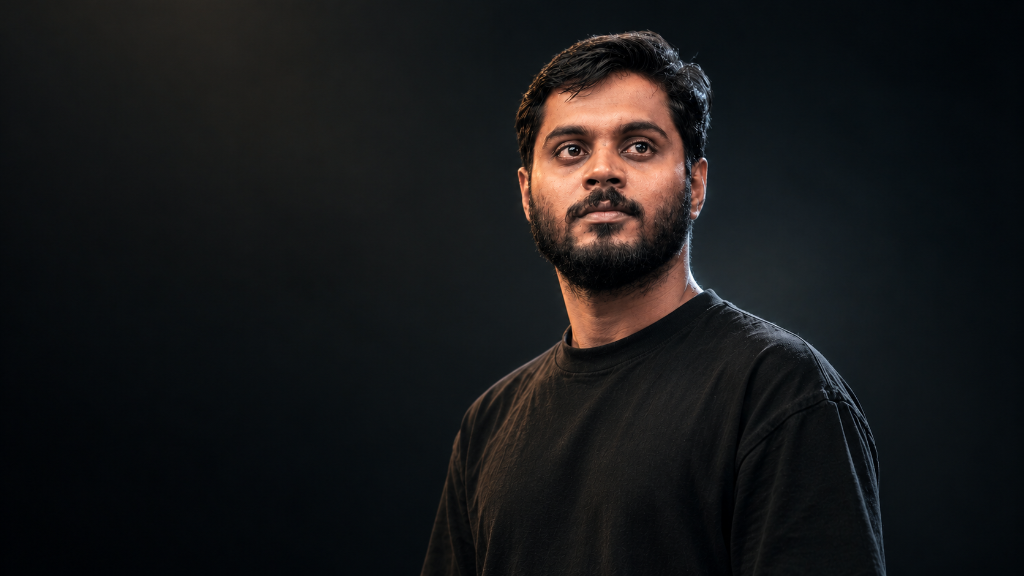
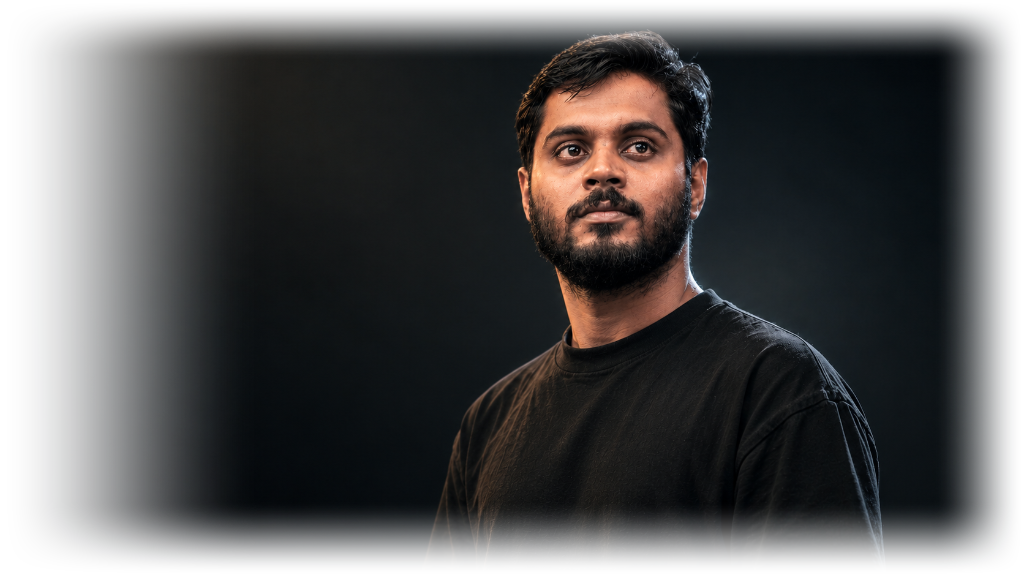
Make hero portrait large and seamlessly blend into website background without card border

diff --git a/index.html b/index.html
@@ -2921,6 +2921,92 @@ button, input, textarea, select {
   }
 }
 
+  
+/* ==========================================================================
+   SEAMLESS HERO VISUAL (LARGE, BORDERLESS & FEATHERED STUDIO INTEGRATION)
+   ========================================================================== */
+.hero-grid {
+  grid-template-columns: 1fr 1.15fr !important;
+  gap: 20px !important;
+  align-items: center !important;
+}
+
+.hero-portrait-wrapper {
+  position: relative !important;
+  display: flex !important;
+  justify-content: center !important;
+  align-items: center !important;
+  width: 100% !important;
+  overflow: visible !important;
+}
+
+.portrait-glow-ring,
+.portrait-lime-accent {
+  display: none !important;
+}
+
+.portrait-editorial-frame {
+  position: relative !important;
+  width: 100% !important;
+  max-width: 760px !important;
+  aspect-ratio: auto !important;
+  border: none !important;
+  border-radius: 0 !important;
+  box-shadow: none !important;
+  background: transparent !important;
+  overflow: visible !important;
+  display: flex !important;
+  justify-content: center !important;
+  align-items: center !important;
+}
+
+.portrait-editorial-img {
+  width: 100% !important;
+  max-width: 760px !important;
+  height: auto !important;
+  display: block !important;
+  object-fit: contain !important;
+  transform: scale(1.15) !important;
+  transform-origin: 72% 52% !important;
+  filter: drop-shadow(0 20px 40px rgba(0, 0, 0, 0.9)) !important;
+  -webkit-mask-image: radial-gradient(ellipse 80% 75% at 70% 50%, #000 50%, rgba(0,0,0,0.85) 65%, transparent 95%) !important;
+  mask-image: radial-gradient(ellipse 80% 75% at 70% 50%, #000 50%, rgba(0,0,0,0.85) 65%, transparent 95%) !important;
+  transition: transform var(--transition-smooth) !important;
+}
+
+.portrait-editorial-frame:hover .portrait-editorial-img {
+  transform: scale(1.18) !important;
+}
+
+.portrait-floating-card {
+  position: absolute !important;
+  bottom: 12px !important;
+  right: 14% !important;
+  background: rgba(15, 15, 15, 0.85) !important;
+  backdrop-filter: blur(14px) !important;
+  -webkit-backdrop-filter: blur(14px) !important;
+  border: 1px solid rgba(255, 255, 255, 0.1) !important;
+  border-radius: 12px !important;
+  padding: 10px 18px !important;
+  box-shadow: 0 15px 35px rgba(0, 0, 0, 0.8) !important;
+  z-index: 5 !important;
+}
+
+@media (max-width: 1024px) {
+  .hero-grid {
+    grid-template-columns: 1fr !important;
+    gap: 30px !important;
+  }
+  .portrait-editorial-img {
+    transform: scale(1.05) !important;
+    transform-origin: center center !important;
+  }
+  .portrait-floating-card {
+    right: 5% !important;
+    bottom: 5px !important;
+  }
+}
+
   </style>
 
   <!-- Favicon / Logo -->

diff --git a/assets/css/styles.css b/assets/css/styles.css
@@ -2872,3 +2872,89 @@ button, input, textarea, select {
     animation: none !important;
   }
 }
+
+
+/* ==========================================================================
+   SEAMLESS HERO VISUAL (LARGE, BORDERLESS & FEATHERED STUDIO INTEGRATION)
+   ========================================================================== */
+.hero-grid {
+  grid-template-columns: 1fr 1.15fr !important;
+  gap: 20px !important;
+  align-items: center !important;
+}
+
+.hero-portrait-wrapper {
+  position: relative !important;
+  display: flex !important;
+  justify-content: center !important;
+  align-items: center !important;
+  width: 100% !important;
+  overflow: visible !important;
+}
+
+.portrait-glow-ring,
+.portrait-lime-accent {
+  display: none !important;
+}
+
+.portrait-editorial-frame {
+  position: relative !important;
+  width: 100% !important;
+  max-width: 760px !important;
+  aspect-ratio: auto !important;
+  border: none !important;
+  border-radius: 0 !important;
+  box-shadow: none !important;
+  background: transparent !important;
+  overflow: visible !important;
+  display: flex !important;
+  justify-content: center !important;
+  align-items: center !important;
+}
+
+.portrait-editorial-img {
+  width: 100% !important;
+  max-width: 760px !important;
+  height: auto !important;
+  display: block !important;
+  object-fit: contain !important;
+  transform: scale(1.15) !important;
+  transform-origin: 72% 52% !important;
+  filter: drop-shadow(0 20px 40px rgba(0, 0, 0, 0.9)) !important;
+  -webkit-mask-image: radial-gradient(ellipse 80% 75% at 70% 50%, #000 50%, rgba(0,0,0,0.85) 65%, transparent 95%) !important;
+  mask-image: radial-gradient(ellipse 80% 75% at 70% 50%, #000 50%, rgba(0,0,0,0.85) 65%, transparent 95%) !important;
+  transition: transform var(--transition-smooth) !important;
+}
+
+.portrait-editorial-frame:hover .portrait-editorial-img {
+  transform: scale(1.18) !important;
+}
+
+.portrait-floating-card {
+  position: absolute !important;
+  bottom: 12px !important;
+  right: 14% !important;
+  background: rgba(15, 15, 15, 0.85) !important;
+  backdrop-filter: blur(14px) !important;
+  -webkit-backdrop-filter: blur(14px) !important;
+  border: 1px solid rgba(255, 255, 255, 0.1) !important;
+  border-radius: 12px !important;
+  padding: 10px 18px !important;
+  box-shadow: 0 15px 35px rgba(0, 0, 0, 0.8) !important;
+  z-index: 5 !important;
+}
+
+@media (max-width: 1024px) {
+  .hero-grid {
+    grid-template-columns: 1fr !important;
+    gap: 30px !important;
+  }
+  .portrait-editorial-img {
+    transform: scale(1.05) !important;
+    transform-origin: center center !important;
+  }
+  .portrait-floating-card {
+    right: 5% !important;
+    bottom: 5px !important;
+  }
+}

diff --git a/scripts/apply_seamless_hero.py b/scripts/apply_seamless_hero.py
@@ -1,0 +1,124 @@
+#!/usr/bin/env python3
+"""
+Updates the hero visual styling so Haris is large and the image blends 100% seamlessly
+with the website background (no borders, no card box, feathered edges, and scale).
+"""
+
+with open('assets/css/styles.css', 'r', encoding='utf-8') as f:
+    css = f.read()
+
+with open('index.html', 'r', encoding='utf-8') as f:
+    html = f.read()
+
+seamless_hero_css = """
+/* ==========================================================================
+   SEAMLESS HERO VISUAL (LARGE, BORDERLESS & FEATHERED STUDIO INTEGRATION)
+   ========================================================================== */
+.hero-grid {
+  grid-template-columns: 1fr 1.15fr !important;
+  gap: 20px !important;
+  align-items: center !important;
+}
+
+.hero-portrait-wrapper {
+  position: relative !important;
+  display: flex !important;
+  justify-content: center !important;
+  align-items: center !important;
+  width: 100% !important;
+  overflow: visible !important;
+}
+
+.portrait-glow-ring,
+.portrait-lime-accent {
+  display: none !important;
+}
+
+.portrait-editorial-frame {
+  position: relative !important;
+  width: 100% !important;
+  max-width: 760px !important;
+  aspect-ratio: auto !important;
+  border: none !important;
+  border-radius: 0 !important;
+  box-shadow: none !important;
+  background: transparent !important;
+  overflow: visible !important;
+  display: flex !important;
+  justify-content: center !important;
+  align-items: center !important;
+}
+
+.portrait-editorial-img {
+  width: 100% !important;
+  max-width: 760px !important;
+  height: auto !important;
+  display: block !important;
+  object-fit: contain !important;
+  transform: scale(1.15) !important;
+  transform-origin: 72% 52% !important;
+  filter: drop-shadow(0 20px 40px rgba(0, 0, 0, 0.9)) !important;
+  -webkit-mask-image: radial-gradient(ellipse 80% 75% at 70% 50%, #000 50%, rgba(0,0,0,0.85) 65%, transparent 95%) !important;
+  mask-image: radial-gradient(ellipse 80% 75% at 70% 50%, #000 50%, rgba(0,0,0,0.85) 65%, transparent 95%) !important;
+  transition: transform var(--transition-smooth) !important;
+}
+
+.portrait-editorial-frame:hover .portrait-editorial-img {
+  transform: scale(1.18) !important;
+}
+
+.portrait-floating-card {
+  position: absolute !important;
+  bottom: 12px !important;
+  right: 14% !important;
+  background: rgba(15, 15, 15, 0.85) !important;
+  backdrop-filter: blur(14px) !important;
+  -webkit-backdrop-filter: blur(14px) !important;
+  border: 1px solid rgba(255, 255, 255, 0.1) !important;
+  border-radius: 12px !important;
+  padding: 10px 18px !important;
+  box-shadow: 0 15px 35px rgba(0, 0, 0, 0.8) !important;
+  z-index: 5 !important;
+}
+
+@media (max-width: 1024px) {
+  .hero-grid {
+    grid-template-columns: 1fr !important;
+    gap: 30px !important;
+  }
+  .portrait-editorial-img {
+    transform: scale(1.05) !important;
+    transform-origin: center center !important;
+  }
+  .portrait-floating-card {
+    right: 5% !important;
+    bottom: 5px !important;
+  }
+}
+"""
+
+# Append to styles.css
+if "SEAMLESS HERO VISUAL" not in css:
+    css = css + "\n" + seamless_hero_css
+else:
+    # replace existing block
+    idx = css.find("/* ==========================================================================\n   SEAMLESS HERO VISUAL")
+    css = css[:idx] + seamless_hero_css
+
+with open('assets/css/styles.css', 'w', encoding='utf-8') as f:
+    f.write(css)
+
+# Append to index.html <style>
+if "SEAMLESS HERO VISUAL" not in html:
+    idx_s = html.find('</style>')
+    if idx_s != -1:
+        html = html[:idx_s] + seamless_hero_css + '\n  ' + html[idx_s:]
+else:
+    idx = html.find("/* ==========================================================================\n   SEAMLESS HERO VISUAL")
+    idx_end = html.find("</style>", idx)
+    html = html[:idx] + seamless_hero_css + '\n  ' + html[idx_end:]
+
+with open('index.html', 'w', encoding='utf-8') as f:
+    f.write(html)
+
+print("✓ Applied seamless hero visual styles to styles.css and index.html!")
